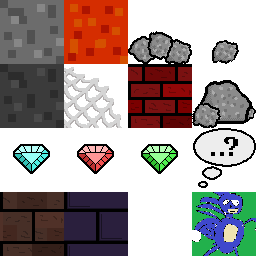
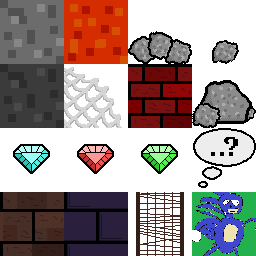
bridges and faster movement

Changed region(s): [[0.5312, 0.75, 0.7188, 1.0]]

diff --git a/src/Renderer.cpp b/src/Renderer.cpp
@@ -20,6 +20,7 @@ const sf::Vector2f bubbleTexCoords[4]  = {sf::Vector2f(192, 128), sf::Vector2f(2
 const sf::Vector2f cgemTexCoords[4]   = {sf::Vector2f(0, 128), sf::Vector2f(64, 128), sf::Vector2f(64, 192), sf::Vector2f(0, 192)};
 const sf::Vector2f rgemTexCoords[4]   = {sf::Vector2f(64, 128), sf::Vector2f(128, 128), sf::Vector2f(128, 192), sf::Vector2f(64, 192)};
 const sf::Vector2f ggemTexCoords[4]   = {sf::Vector2f(128, 128), sf::Vector2f(192, 128), sf::Vector2f(192, 192), sf::Vector2f(128, 192)};
+const sf::Vector2f bridgeTexCoords[4] = {sf::Vector2f(128, 192), sf::Vector2f(192, 192), sf::Vector2f(192, 256), sf::Vector2f(128, 256)};
 
 Renderer::Renderer() {
 	// Tileset
@@ -225,7 +226,7 @@ void Renderer::render(sf::RenderTarget& target, Tunnel& t, Player& p, float rock
 
 		if (z0 < 60) {
 			for (int j = 0; j < 4; j++) {
-				if (t.get(i, j) == 1 && t.get(i + 1, j) != 1) {
+				if ((t.get(i, j) == 1 || t.get(i, j) == 5) && !(t.get(i + 1, j) == 1 || t.get(i + 1, j) == 5)) {
 					drawTileFlat(vertexArray, z0 + 1, j - 2, j - 1, 2, 3, darkStoneTexCoords);
 				}
 			}
@@ -355,7 +356,7 @@ void Renderer::drawTileFlat(sf::VertexArray& vertexArray, float z, float x1, flo
 	vertexArray.append(vert4);
 }
 
-void Renderer::drawTile(sf::VertexArray& vertexArray, float z1, float z2, float x1, float x2, float y1, float y2, int x, int z) {
+void Renderer::drawTile(sf::VertexArray& vertexArray, float z1, float z2, float x1, float x2, float y1, float y2, int x, int z, bool lava) {
 
 	sf::ConvexShape shape;
 	shape.setPointCount(4);
@@ -365,16 +366,19 @@ void Renderer::drawTile(sf::VertexArray& vertexArray, float z1, float z2, float 
 	float sz2 = std::sqrt(z2 + 1.5);
 
 	const sf::Vector2f* texCoords;
-	if (x != -1 && tunnel->get(z, x) == 1) {
+	if (lava || (x != -1 && tunnel->get(z, x) == 1)) {
 		y1 += .2f;
 		y2 += .2f;
 		texCoords = lavaTexCoords;
 
-		if (x == 0 || (x == 1 && tunnel->get(z, 0) == 0)) {
+		if (x == 0 || (x == 1 && (tunnel->get(z, 0) == 0 || tunnel->get(z, 0) == 5))) {
 			drawTile(vertexArray, z1, z2, x1, x1, 2, 3);
-		} else if (x == 3 || (x == 2 && tunnel->get(z, 3) == 0)) {
+		} else if (x == 3 || (x == 2 && (tunnel->get(z, 3) == 0 || tunnel->get(z, 3) == 5))) {
 			drawTile(vertexArray, z1, z2, x2, x2, 2, 3);
 		}
+	} else if (tunnel->get(z, x) == 5) {
+		drawTile(vertexArray, z1, z2, x1, x2, y1, y2, x, z, true);
+		texCoords = bridgeTexCoords;
 	} else {
 		if (tunnel->getDifficulty() == 1) {
 			texCoords = dungeonTexCoords;

diff --git a/src/main.cpp b/src/main.cpp
@@ -81,15 +81,17 @@ void logic() {
 	} else {
 		if (!player.fallen && player.y < 0.3 && (tunnel.get(z1, x1) > 1 && tunnel.get(z2, x1) > 1 && tunnel.get(z1, x2) > 1 && tunnel.get(z2, x2) > 1)) {
 			int rok = tunnel.get(z1, x1);
-			if (rok == 2)
-				player.zVel = 1.5;
-			else if (rok == 3)
-				player.zVel = 3.5f;
-			else if (rok == 4)
-				player.zVel = 0.0f;
-			bumpSound.play();
-			tunnel.set(z1, x1, 0);
-			renderer.addParticles(10, sf::Color(100, 100, 100), sf::Vector3f(player.x, 2, player.z));
+			if (rok != 5) {
+				if (rok == 2)
+					player.zVel = 1.5;
+				else if (rok == 3)
+					player.zVel = 3.5f;
+				else if (rok == 4)
+					player.zVel = 0.0f;
+				bumpSound.play();
+				tunnel.set(z1, x1, 0);
+				renderer.addParticles(10, sf::Color(100, 100, 100), sf::Vector3f(player.x, 2, player.z));
+			}
 		} else if (!player.fallen && player.y > 0.3 && (tunnel.get(z1, x1 + 5) >= 1 && tunnel.get(z2, x1 + 5) >= 1 && tunnel.get(z1, x2 + 5) >= 1 && tunnel.get(z2, x2 + 5) >= 1)) {
 			int gem = tunnel.get(z1, x1 + 5);
 			player.score += gem;
@@ -167,7 +169,7 @@ void logic() {
 		player.z += player.zVel * difff * 2;
 	}
 	player.y += player.yVel * difff;
-	player.x += player.xVel * difff;
+	player.x += player.xVel * difff * 1.5;
 	if (player.x < -1.9) {
 		player.x = -1.9;
 		player.xVel = 0;

diff --git a/src/Tunnel.cpp b/src/Tunnel.cpp
@@ -33,20 +33,40 @@ void Tunnel::reset(int len, int diff) {
 void Tunnel::genTo(int z) {
 	while((int)tunnel.size() < z + 1) {
 		if (rand() % (10 - difficulty) == 1) {
-			// pool
-			int x = rand() % 4;
-			int len = rand() % 4 + 4;
-			for (int i = 0; i < len; i++) {
-				int* arr = insertRow();
-				arr[x] = 1;
-				if (i != 0 && i != len - 1) {
-					int x0 = x - 1;
-					if (x0 >= 0) {
-						arr[x0] = 1;
+			if (rand() % 5 == 1) {
+				// bridge pool
+				int x = rand() % 2 + 1;
+				int len = rand() % 4 + 4;
+				for (int i = 0; i < len; i++) {
+					int* arr = insertRow();
+					for (int j = 0; j < len; j++) {
+						if (j == x) {
+							arr[j] = 5;
+						} else {
+							if (rand() % 10 == 1) {
+								arr[j] = 0;
+							} else {
+								arr[j] = 1;
+							}
+						}
 					}
-					int x1 = x + 1;
-					if (x1 <= 3) {
-						arr[x1] = 1;
+				}
+			} else {
+				// pool
+				int x = rand() % 4;
+				int len = rand() % 4 + 4;
+				for (int i = 0; i < len; i++) {
+					int* arr = insertRow();
+					arr[x] = 1;
+					if (i != 0 && i != len - 1) {
+						int x0 = x - 1;
+						if (x0 >= 0) {
+							arr[x0] = 1;
+						}
+						int x1 = x + 1;
+						if (x1 <= 3) {
+							arr[x1] = 1;
+						}
 					}
 				}
 			}

diff --git a/src/Renderer.h b/src/Renderer.h
@@ -24,7 +24,7 @@ class Renderer {
 		void reset();
 
 	private:
-		void drawTile(sf::VertexArray& vertexArray, float z1, float z2, float x1, float x2, float y1, float y2, int x = -1, int z = 0);
+		void drawTile(sf::VertexArray& vertexArray, float z1, float z2, float x1, float x2, float y1, float y2, int x = -1, int z = 0, bool lava = false);
 		void drawTileFlat(sf::VertexArray& vertexArray, float z, float x1, float x2, float y1, float y2, const sf::Vector2f* texCoords);
 
 		sf::Texture tileTexture;
